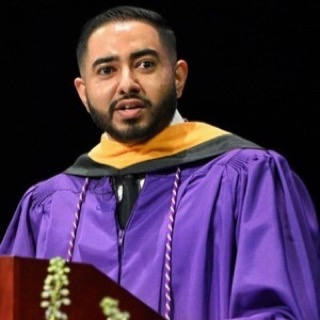
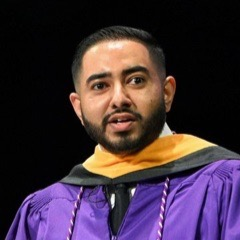
Homepage refinements per Abe
Add X/Twitter (abe_varughese), hide Save my contact (kept wired),
recrop avatar centered on face, Nassau County NY, Kind Steward as
non-profit charity with goal-framed copy, ABV Invest to slot 2.

diff --git a/index.html b/index.html
@@ -39,6 +39,7 @@
   "sameAs": [
     "https://www.instagram.com/abe.varughese",
     "https://www.tiktok.com/@abevarughese",
+    "https://x.com/abe_varughese",
     "https://www.linkedin.com/in/abevarughese"
   ]
 }
@@ -313,12 +314,17 @@ footer{
         <a class="soc" href="https://www.tiktok.com/@abevarughese" target="_blank" rel="noopener" aria-label="TikTok" data-track="tiktok">
           <svg viewBox="0 0 24 24" fill="currentColor"><path d="M19.32 5.56a5.06 5.06 0 0 1-3.05-2.94 5 5 0 0 1-.27-1.62h-3.35v13.4a2.84 2.84 0 1 1-2.84-2.84c.29 0 .57.05.84.13V8.28a6.3 6.3 0 0 0-.84-.06 6.24 6.24 0 1 0 6.24 6.24V9.4a8.35 8.35 0 0 0 4.87 1.56V7.61a5.02 5.02 0 0 1-1.6-.26z"/></svg>
         </a>
+        <a class="soc" href="https://x.com/abe_varughese" target="_blank" rel="noopener" aria-label="X (Twitter)" data-track="x">
+          <svg viewBox="0 0 24 24" fill="currentColor"><path d="M18.244 2.25h3.308l-7.227 8.26 8.502 11.24H16.17l-5.214-6.817L4.99 21.75H1.68l7.73-8.835L1.254 2.25H8.08l4.713 6.231zm-1.161 17.52h1.833L7.084 4.126H5.117z"/></svg>
+        </a>
         <a class="soc" href="https://www.linkedin.com/in/abevarughese" target="_blank" rel="noopener" aria-label="LinkedIn" data-track="linkedin">
           <svg viewBox="0 0 24 24" fill="currentColor"><path d="M20.45 20.45h-3.55v-5.57c0-1.33-.03-3.04-1.85-3.04-1.86 0-2.14 1.45-2.14 2.94v5.67H9.35V9h3.41v1.56h.05c.47-.9 1.63-1.85 3.36-1.85 3.6 0 4.27 2.37 4.27 5.46v6.28zM5.34 7.43a2.06 2.06 0 1 1 0-4.12 2.06 2.06 0 0 1 0 4.12zM7.12 20.45H3.56V9h3.56v11.45z"/></svg>
         </a>
       </div>
 
-      <button class="save-contact" id="saveContact" data-track="save-contact">
+      <!-- SAVE CONTACT: hidden per Abe 2026-07-12. To re-enable, delete style="display:none".
+           The vCard generator below stays wired and ready. -->
+      <button class="save-contact" id="saveContact" data-track="save-contact" style="display:none">
         <svg viewBox="0 0 24 24" fill="none" stroke="currentColor" stroke-width="2" stroke-linecap="round" stroke-linejoin="round"><path d="M16 21v-2a4 4 0 0 0-4-4H6a4 4 0 0 0-4 4v2"/><circle cx="9" cy="7" r="4"/><line x1="19" y1="8" x2="19" y2="14"/><line x1="16" y1="11" x2="22" y2="11"/></svg>
         Save my contact
       </button>
@@ -332,31 +338,31 @@ footer{
     <nav class="grid" aria-label="Abe's ventures">
 
       <a class="tile wide rise d2" href="/honestabe" style="--accent:var(--copper)" data-track="honestabe">
-        <span class="eyebrow">Nassau County · Property Tax <span class="badge">Featured</span></span>
+        <span class="eyebrow">Nassau County, NY · Property Tax <span class="badge">Featured</span></span>
         <h3>Honest Abe Tax</h3>
         <p>I lower your property taxes. I file the grievance, and if your bill doesn't drop, you pay nothing.</p>
         <span class="dest"><span class="url">abvlinks.com/honestabe</span><span class="arrow">↗</span></span>
       </a>
 
-      <a class="tile rise d3" href="https://alphaventurecapital.vc" target="_blank" rel="noopener" style="--accent:var(--gold)" data-track="avc">
+      <a class="tile wide rise d3" href="https://abvinvest.com" target="_blank" rel="noopener" style="--accent:var(--cyan)" data-track="abvinvest">
+        <span class="eyebrow">Free Finance Tools</span>
+        <h3>ABV Financial Intelligence</h3>
+        <p>Free interactive calculators: compound growth, retirement, net worth, and 2026 federal and state taxes.</p>
+        <span class="dest"><span class="url">abvinvest.com</span><span class="arrow">↗</span></span>
+      </a>
+
+      <a class="tile rise d4" href="https://alphaventurecapital.vc" target="_blank" rel="noopener" style="--accent:var(--gold)" data-track="avc">
         <span class="eyebrow">Private Investment Firm</span>
         <h3>Alpha Venture Capital</h3>
         <p>Accredited private investment firm in New York, investing across stages, from pre-seed through late-stage private companies.</p>
         <span class="dest"><span class="url">alphaventurecapital.vc</span><span class="arrow">↗</span></span>
       </a>
 
-      <a class="tile rise d4" href="https://kindsteward.org" target="_blank" rel="noopener" style="--accent:var(--green)" data-track="kindsteward">
-        <span class="eyebrow">501(c)(3) Public Charity</span>
+      <a class="tile rise d5" href="https://kindsteward.org" target="_blank" rel="noopener" style="--accent:var(--green)" data-track="kindsteward">
+        <span class="eyebrow">Non-Profit Charity</span>
         <h3>Kind Steward</h3>
-        <p>Direct humanitarian assistance in Ethiopia, Kenya, and the United States. Every dollar, measured in people helped.</p>
+        <p>A non-profit built on transparency, with one goal: 100% of what you give reaching people on the ground.</p>
         <span class="dest"><span class="url">kindsteward.org</span><span class="arrow">↗</span></span>
-      </a>
-
-      <a class="tile wide rise d5" href="https://abvinvest.com" target="_blank" rel="noopener" style="--accent:var(--cyan)" data-track="abvinvest">
-        <span class="eyebrow">Free Finance Tools</span>
-        <h3>ABV Financial Intelligence</h3>
-        <p>Free interactive calculators: compound growth, retirement, net worth, and 2026 federal and state taxes.</p>
-        <span class="dest"><span class="url">abvinvest.com</span><span class="arrow">↗</span></span>
       </a>
 
       <!-- ═══ FUTURE EMBED CARD · uncomment and edit to drop in a playable
@@ -464,7 +470,9 @@ footer{
           'item2.URL:https://www.tiktok.com/@abevarughese',
           'item2.X-ABLabel:TikTok',
           'item3.URL:https://www.linkedin.com/in/abevarughese',
-          'item3.X-ABLabel:LinkedIn'
+          'item3.X-ABLabel:LinkedIn',
+          'item4.URL:https://x.com/abe_varughese',
+          'item4.X-ABLabel:X'
         ];
         if(photo) v.push('PHOTO;ENCODING=b;TYPE=JPEG:' + photo);
         v.push('END:VCARD');
